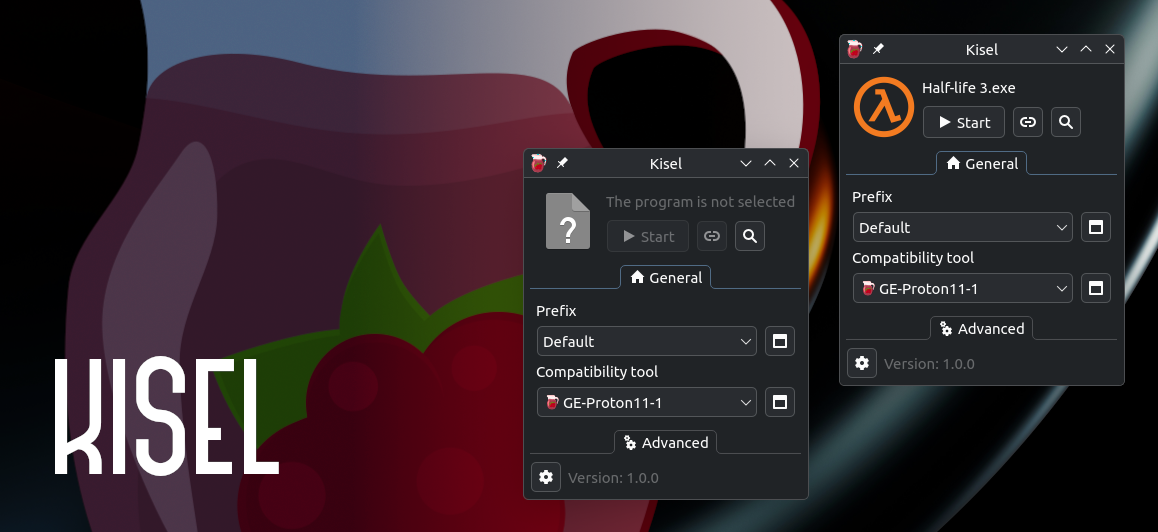
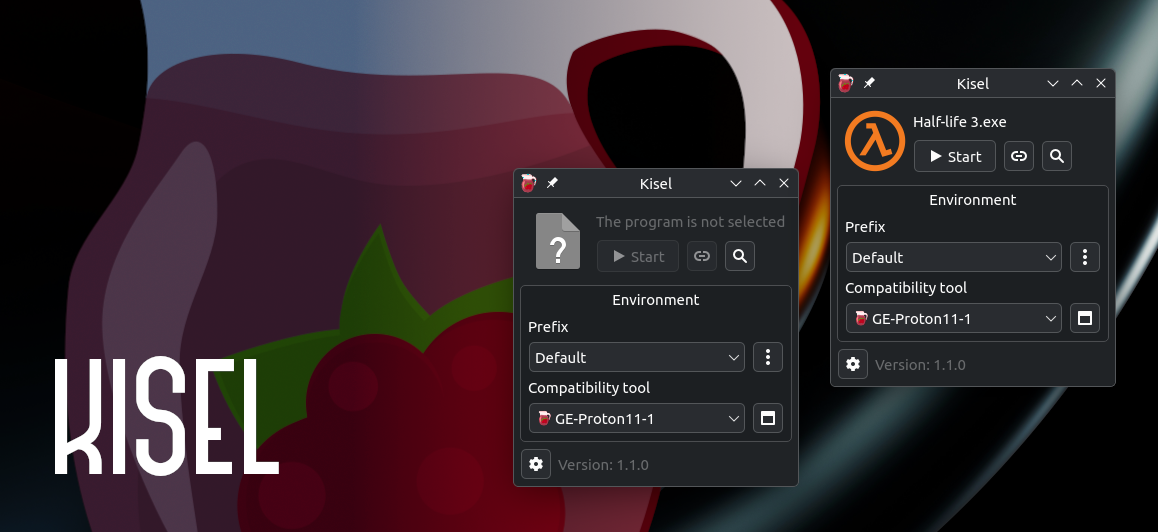
README.md has been updated and a Russian translation has been added

Changed region(s): [[0.4352, 0.0602, 0.9948, 0.9624], [0.8083, 0.3609, 0.8705, 0.391], [0.6839, 0.8722, 0.715, 0.9323]]

diff --git a/translations/kisel_ru.ts b/translations/kisel_ru.ts
@@ -477,72 +477,72 @@
 <context>
     <name>kisel::PrefixSettingsDialog</name>
     <message>
-        <location filename="../src/prefix_settings_dialog.cpp" line="49"/>
+        <location filename="../src/prefix_settings_dialog.cpp" line="50"/>
         <source>Enable accessibility controls, such as controlling the application interface with a gamepad</source>
         <translation>Включить специальные возможности управления, такие как управление интерфейсом с помощью геймпада</translation>
     </message>
     <message>
-        <location filename="../src/prefix_settings_dialog.cpp" line="56"/>
+        <location filename="../src/prefix_settings_dialog.cpp" line="57"/>
         <source>Compatibility</source>
         <translation>Совместимость</translation>
     </message>
     <message>
-        <location filename="../src/prefix_settings_dialog.cpp" line="60"/>
+        <location filename="../src/prefix_settings_dialog.cpp" line="61"/>
         <source>Enable Wayland driver</source>
         <translation>Включить драйвер Wayland</translation>
     </message>
     <message>
-        <location filename="../src/prefix_settings_dialog.cpp" line="88"/>
+        <location filename="../src/prefix_settings_dialog.cpp" line="89"/>
         <source>Use Steam</source>
         <translation>Использовать Steam</translation>
     </message>
     <message>
-        <location filename="../src/prefix_settings_dialog.cpp" line="80"/>
+        <location filename="../src/prefix_settings_dialog.cpp" line="81"/>
         <source>Steam Environment</source>
         <translation>Окружение Steam</translation>
     </message>
     <message>
-        <location filename="../src/prefix_settings_dialog.cpp" line="81"/>
+        <location filename="../src/prefix_settings_dialog.cpp" line="82"/>
         <source>Using the Steam environment for better compatibility with some games</source>
         <translation>Использование окружения Steam для лучшей совместимости с некоторыми играми</translation>
     </message>
     <message>
-        <location filename="../src/prefix_settings_dialog.cpp" line="67"/>
+        <location filename="../src/prefix_settings_dialog.cpp" line="68"/>
         <source>Enable WOW64</source>
         <translation>Включить WOW64</translation>
     </message>
     <message>
-        <location filename="../src/prefix_settings_dialog.cpp" line="26"/>
+        <location filename="../src/prefix_settings_dialog.cpp" line="27"/>
         <source>Services</source>
         <translation>Сервисы</translation>
     </message>
     <message>
-        <location filename="../src/prefix_settings_dialog.cpp" line="32"/>
+        <location filename="../src/prefix_settings_dialog.cpp" line="33"/>
         <source>Enable Performance Monitor (requires mangohud to be installed)</source>
         <translation>Включить монитор производительности (требуется установленный mangohud)</translation>
     </message>
     <message>
-        <location filename="../src/prefix_settings_dialog.cpp" line="41"/>
+        <location filename="../src/prefix_settings_dialog.cpp" line="42"/>
         <source>Enable Vulkan app screen capture for OBS (requires obs-vkcapture to be installed)</source>
         <translation>Включить захват экрана приложений на Vulkan для OBS (требуется установленный obs-vkcapture)</translation>
     </message>
     <message>
-        <location filename="../src/prefix_settings_dialog.cpp" line="74"/>
+        <location filename="../src/prefix_settings_dialog.cpp" line="75"/>
         <source>Don&apos;t use Steam</source>
         <translation>Не использовать Steam</translation>
     </message>
     <message>
-        <location filename="../src/prefix_settings_dialog.cpp" line="95"/>
+        <location filename="../src/prefix_settings_dialog.cpp" line="96"/>
         <source>Enable OnlineFix</source>
         <translation>Включить OnlineFix</translation>
     </message>
     <message>
-        <location filename="../src/prefix_settings_dialog.cpp" line="16"/>
+        <location filename="../src/prefix_settings_dialog.cpp" line="17"/>
         <source>Kisel — Prefix Settings</source>
         <translation>Кисель — Настройки префикса</translation>
     </message>
     <message>
-        <location filename="../src/prefix_settings_dialog.cpp" line="23"/>
+        <location filename="../src/prefix_settings_dialog.cpp" line="24"/>
         <source>&lt;h3&gt;Settings for &quot;%1&quot;&lt;/h3&gt;</source>
         <translation>&lt;h3&gt;Настройки для &quot;%1&quot;&lt;/h3&gt;</translation>
     </message>

diff --git a/docs/README_RU.md b/docs/README_RU.md
@@ -1,0 +1,61 @@
+# Кисель
+
+Эффективный запуск Windows программ
+
+![screenshot](../resources/screenshot_ru.png)
+
+## Основные возможности
+- Возможность запуска игр без Steam с помощью [umu-launcher](https://github.com/Open-Wine-Components/umu-launcher), а также с ним
+- Совместимость со средой Steam
+- Код на C++ и минимальные действия для запуска exe-файлов
+- Возможность создания ярлыков на рабочем столе вместо отображения списка добавленных приложений
+- Управление префиксами и инструментами совместимости (Proton)
+- Установка дополнительных DLL-файлов в префиксы
+- Поддержка OnlineFix (по умолчанию отключено)
+- Поддержка загрузки инструментов совместимости:
+    - Proton-GE (по умолчанию)
+    - Proton-CachyOS
+- Настройка следующих параметров:
+    - Автоматическое обновление среды выполнения
+    - Использование Steam или umu-launcher
+    - MangoHud
+    - OBS Vulkan Game Capture
+    - Xalia
+    - Драйвер Wayland
+    - Использование среды Steam
+    - WOW64
+    - OnlineFix
+- Доступные переводы:
+    - English
+    - Русский
+
+## Зависимости
+- qt6-base: Графический интерфейс
+- [umu-launcher](https://github.com/Open-Wine-Components/umu-launcher): Способ запуска приложений Windows без Steam
+- icoutils: Извлечение значков
+- #### По желанию:
+    - winetricks: Дополнительные скрипты для работы с префиксом Wine
+    - mangohud: Мониторинга FPS, температуры, загрузки ЦП/ГП поверх игры
+    - obs-vkcapture: Плагин для захвата игр на Vulkan для OBS
+
+## Установка
+
+### Arch Linux
+[Скачать последнюю версию pkg.tar.zst](https://github.com/seinedkoda/kisel/releases/latest)
+
+```bash
+sudo pacman -U kisel-*.pkg.tar.zst
+```
+
+### Сборка из исходного кода с использованием CMake
+
+*Требуется Qt6 LinguistTools (qt6-tools)*
+
+```bash
+git clone https://github.com/seinedkoda/kisel.git
+cd kisel
+cmake -B build -DCMAKE_BUILD_TYPE=Release && cmake --build build
+```
+
+## Лицензия
+*GPL-3.0*

diff --git a/README.md b/README.md
@@ -1,3 +1,5 @@
+[На русском](docs/README_RU.md)
+
 # Kisel
 
 Efficient launch of Windows programs
@@ -5,35 +7,43 @@ Efficient launch of Windows programs
 ![screenshot](resources/screenshot.png)
 
 ## Highlights
-- Currently uses [umu-launcher](https://github.com/Open-Wine-Components/umu-launcher) to run exe
+- It can run games without Steam using [umu-launcher](https://github.com/Open-Wine-Components/umu-launcher), and with it
 - Compatibility with the Steam environment
 - C++ code and minimal actions to run exe
 - Ability to create desktop shortcuts instead of displaying the list of added applications
-- Managing Prefixes and Compatibility Tools
+- Managing Prefixes and Compatibility Tools (Proton)
+- Installing additional prefix dlls
+- OnlineFix Support (Disabled by default)
 - Support for downloading compatibility tools:
     - Proton-GE (Default)
     - Proton-CachyOS
 - Configure the following parameters:
     - Runtime auto-update
+    - Using Steam or umu-launcher
     - MangoHud
-    - Obs Vulkan Game Capture
+    - OBS Vulkan Game Capture
     - Xalia
     - Wayland driver
-    - Steam simulation
+    - Steam Environment
     - WOW64
+    - OnlineFix
 - Available translations:
     - English
     - Русский
 
 ## Dependencies
-- qt6-base: graphical interface
-- [umu-launcher](https://github.com/Open-Wine-Components/umu-launcher): way to launch Windows applications
-- icoutils: extracting icons
+- qt6-base: Graphical interface
+- [umu-launcher](https://github.com/Open-Wine-Components/umu-launcher): Way to launch Windows applications without Steam
+- icoutils: Extracting icons
+- #### Optional:
+    - winetricks: Additional scripts for working with Wine prefix
+    - mangohud: Overlay for monitoring FPS, temperature, CPU/GPU load
+    - obs-vkcapture: Vulkan game capture plugin for OBS
 
 ## Installation
 
 ### Arch Linux
-[> Download the latest version of pkg.tar.zst](https://github.com/seinedkoda/kisel/releases/latest)
+[Download the latest version of pkg.tar.zst](https://github.com/seinedkoda/kisel/releases/latest)
 
 ```bash
 sudo pacman -U kisel-*.pkg.tar.zst
@@ -41,7 +51,7 @@ sudo pacman -U kisel-*.pkg.tar.zst
 
 ### Build from source using CMake
 
-*Qt6 LinguistTools(qt6-tools) required*
+*Qt6 LinguistTools (qt6-tools) required*
 
 ```bash
 git clone https://github.com/seinedkoda/kisel.git
